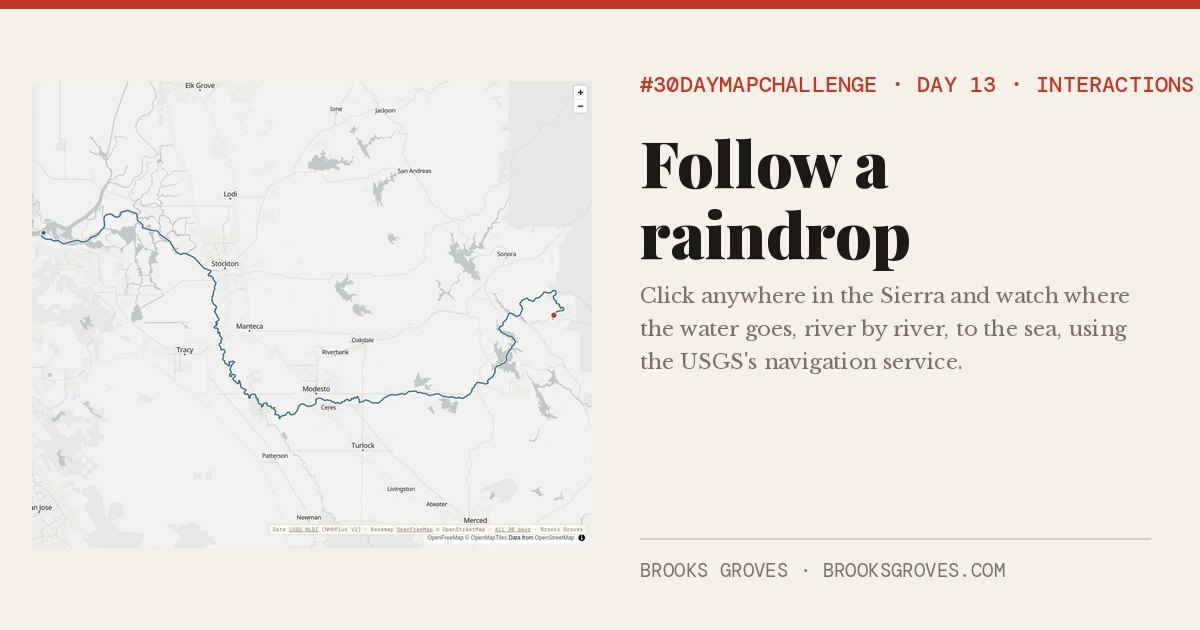
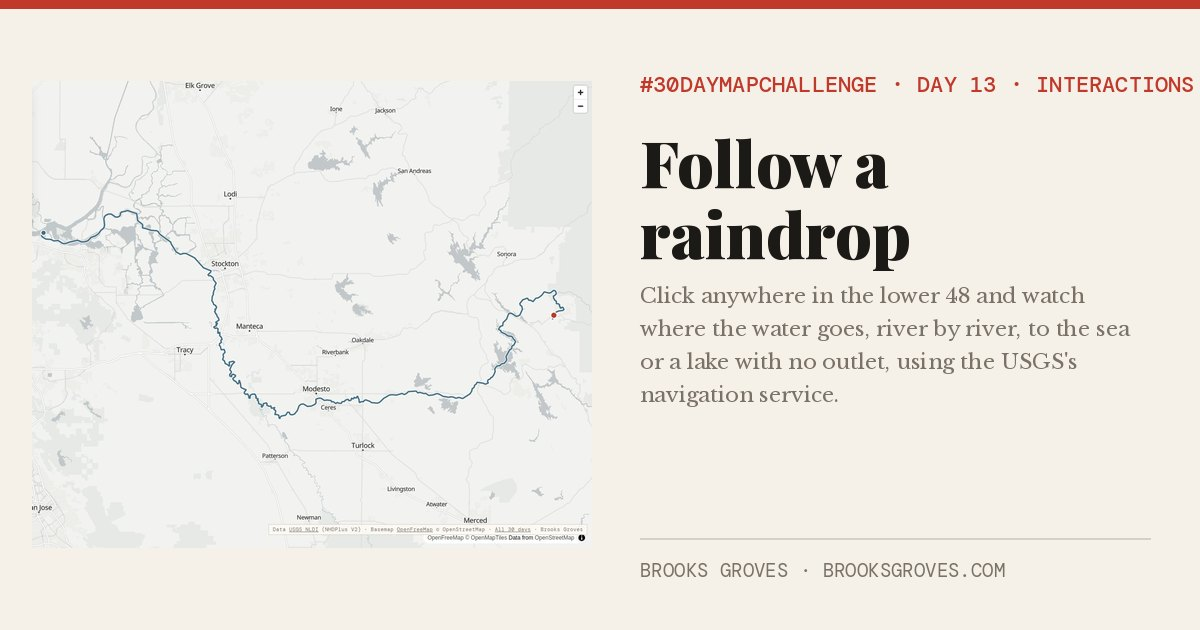
Day 13: pitch matches the page (lower 48, 279 km from Groveland)
Claude-Session: https://claude.ai/code/session_01XT8v9DF68cFLbibUaHUWWu

Changed region(s): [[0.5242, 0.5127, 0.9558, 0.6635], [0.74, 0.4524, 0.9558, 0.4825]]

diff --git a/2026/day-13-interactions/README.md b/2026/day-13-interactions/README.md
@@ -5,7 +5,7 @@
 
 ## Follow a raindrop
 
-Click anywhere in the Sierra and watch where the water goes, river by river, to the sea, using the USGS's navigation service.
+Click anywhere in the lower 48 and watch where the water goes, river by river, to the sea or a lake with no outlet, using the USGS's navigation service. From Groveland, it is 279 km to the Delta.
 
 **Data**
 
